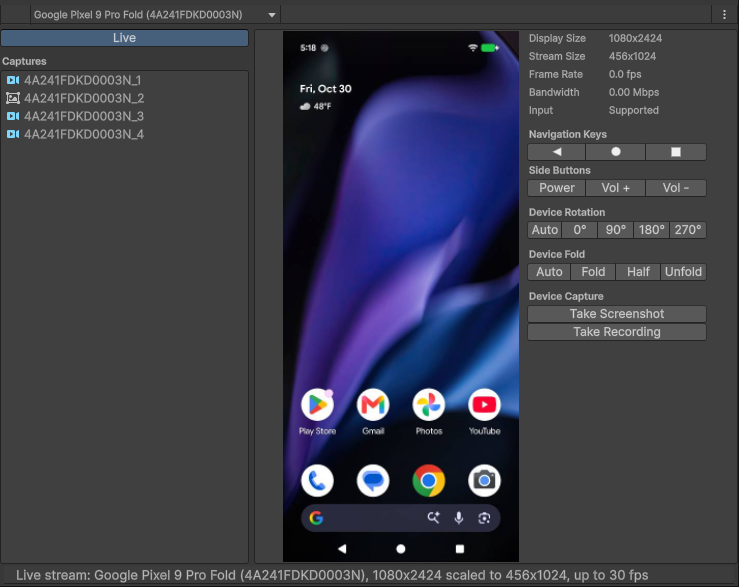
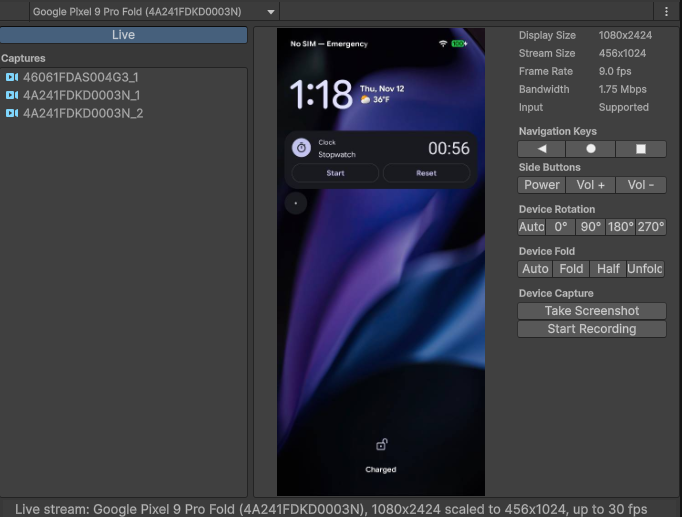
Take Recording -> Start Recording

Changed region(s): [[0.0, 0.0, 1.0, 1.0], [0.9545, 0.0, 0.9853, 0.0309], [0.893, 0.3095, 0.9238, 0.3404]]

diff --git a/com.unity.mobile.android-logcat/Editor/AndroidLogcatScreenCaptureWindow.cs b/com.unity.mobile.android-logcat/Editor/AndroidLogcatScreenCaptureWindow.cs
@@ -21,12 +21,12 @@ namespace Unity.Android.Logcat
                 "Capture the device screen and add it to the list. The screenshot comes from the device "
                 + "rather than from the stream, so it is full resolution whatever the stream is scaled to. "
                 + "Shortcut: Ctrl+Shift+S, Cmd+Shift+S on macOS, while this view is showing.");
-            public static readonly GUIContent TakeRecording = new GUIContent("Take Recording",
+            public static readonly GUIContent StartRecording = new GUIContent("Start Recording",
                 "Record the live view, at the stream's size, and add the recording to the list when "
                 + "it stops. Leaving the live view stops it.");
             public static readonly GUIContent StopRecording = new GUIContent("Stop Recording",
                 "Stop recording and add the recording to the list.");
-            public static readonly GUIContent RecordingUnsupported = new GUIContent("Take Recording",
+            public static readonly GUIContent RecordingUnsupported = new GUIContent("Start Recording",
                 "Recording isn't available on Linux, the Linux Editor has no H.264 encoder.");
         }
         private AndroidLogcatRuntimeBase m_Runtime;
@@ -96,7 +96,7 @@ namespace Unity.Android.Logcat
                 // One button that starts and stops: a recording is running or it is
                 // not, and two buttons would leave one of them dead most of the time.
                 new AndroidLogcatLiveStream.CaptureAction(
-                    () => m_CaptureVideo.IsRecording ? Styles.StopRecording : RecordingSupported ? Styles.TakeRecording : Styles.RecordingUnsupported,
+                    () => m_CaptureVideo.IsRecording ? Styles.StopRecording : RecordingSupported ? Styles.StartRecording : Styles.RecordingUnsupported,
                     ToggleRecording, () => CanRecord)
             };
 
@@ -452,7 +452,7 @@ namespace Unity.Android.Logcat
             {
                 var message = m_DeviceSelection.SelectedDevice == null
                     ? "No capture to show. Select one from the list."
-                    : "No capture to show. Select Live, then Take Screenshot or Take Recording.";
+                    : "No capture to show. Select Live, then Take Screenshot or Start Recording.";
                 EditorGUI.HelpBox(imageRect, message, MessageType.Info);
             }
         }

diff --git a/com.unity.mobile.android-logcat/Documentation~/screen-capture-window-reference.md b/com.unity.mobile.android-logcat/Documentation~/screen-capture-window-reference.md
@@ -143,7 +143,7 @@ The device navigation buttons work while the live view is streaming and the devi
 | **Half**    | Holds the device half open, regardless of the hinge position. Appears only for devices that report half open as a separate state. |
 | **Unfold**  | Holds the device unfolded, regardless of the hinge position. |
 
-Under **Device Capture**, **Take Screenshot** captures the device screen and adds it to the [Capture list](#capture-list). **Ctrl+Shift+S** (macOS: **Cmd+Shift+S**) does the same while this window has focus and **Live** is selected. The shortcut has no effect while a saved capture is selected. **Take Recording** starts recording the live view and changes to **Stop Recording**, and the view shows how long it has been recording. The recording is added to the list when it stops. The [Capture list](#capture-list) is disabled while recording. Closing the window, or the live stream stopping, also stops the recording, so a recording never continues out of sight. Screenshots are taken on the device, so they are full resolution regardless of how the stream is scaled. Recordings are made from the stream, so they are the stream's size.
+Under **Device Capture**, **Take Screenshot** captures the device screen and adds it to the [Capture list](#capture-list). **Ctrl+Shift+S** (macOS: **Cmd+Shift+S**) does the same while this window has focus and **Live** is selected. The shortcut has no effect while a saved capture is selected. **Start Recording** records the live view and changes to **Stop Recording**, and the view shows how long it has been recording. The recording is added to the list when it stops. The [Capture list](#capture-list) is disabled while recording. Closing the window, or the live stream stopping, also stops the recording, so a recording never continues out of sight. Screenshots are taken on the device, so they are full resolution regardless of how the stream is scaled. Recordings are made from the stream, so they are the stream's size.
 
 For how to interact with the device and how to change the size, quality, and frame rate of the stream, refer to [View the device screen live](screen-capture-live-stream.md).
 

diff --git a/com.unity.mobile.android-logcat/CHANGELOG.md b/com.unity.mobile.android-logcat/CHANGELOG.md
@@ -16,7 +16,7 @@ and this project adheres to [Semantic Versioning](http://semver.org/spec/v2.0.0.
  - The details beside a selected screenshot show the device, its Android version and display size, along with the image size, the file size and when it was captured. The device details read `Undefined` for a screenshot saved without them.
  - The screenshot and the live view can be zoomed with Ctrl+Wheel (Cmd+Wheel on macOS), and the zoomed image moved with a Ctrl+middle mouse button drag or with the scrollbars that appear.
  - The device screen can be viewed live from the Screen Capture window: select the "Live" row at the top of the screenshot list. Clicks, drags, the scroll wheel and typing are sent to the device as touch, scroll and key events, and Ctrl+A, Ctrl+C and Ctrl+V (Cmd on macOS) select all, copy and paste on the device using its own clipboard, and Back / Home / Overview buttons sit beside the image with the stream details. 
- - Screen recordings are now made from the live view, with **Take Recording** in the live view, instead of with `adb screenrecord`. They are saved as constant frame rate MP4 files beside the screenshots, at the live stream's **Max Frame Rate** (up to 60 fps), and follow the live view's rotation. A recording stops on its own after the **Time Limit** set in Preferences (10 minutes by default, up to 60). Recording is not available on Linux.
+ - Screen recordings are now made from the live view, with **Start Recording** in the live view, instead of with `adb screenrecord`. They are saved as constant frame rate MP4 files beside the screenshots, at the live stream's **Max Frame Rate** (up to 60 fps), and follow the live view's rotation. A recording stops on its own after the **Time Limit** set in Preferences (10 minutes by default, up to 60). Recording is not available on Linux.
  - Recordings can be played in the Screen Capture window, with play/pause, a time slider and buttons that step one frame back or forward.
  - Tools->Open Terminal is now supported on Linux Editor.
  - Fixed Tools->Open Terminal not opening a window on Windows Editor when running on CoreCLR.

diff --git a/com.unity.mobile.android-logcat/Documentation~/screen-capture-video.md b/com.unity.mobile.android-logcat/Documentation~/screen-capture-video.md
@@ -5,7 +5,7 @@ This page explains how to use the [Screen Capture tool](screen-capture.md) to re
 1. Open the [Device Screen Capture window](screen-capture-window-reference.md).
 2. In the [Toolbar](screen-capture-window-reference.md#toolbar), use **Device Selector** to specify the device to record.
 3. Select **Live** in the [Capture list](screen-capture-window-reference.md#capture-list) to view the device's screen.
-4. Select **Take Recording** in the [Live view details](screen-capture-window-reference.md#live-view-details). The Screen Capture tool begins to record the device's screen, and the button becomes **Stop Recording**.
+4. Select **Start Recording** in the [Live view details](screen-capture-window-reference.md#live-view-details). The Screen Capture tool begins to record the device's screen, and the button becomes **Stop Recording**.
 5. Select **Stop Recording** to finish. The recording is added to the [Capture list](screen-capture-window-reference.md#capture-list), and its row is briefly highlighted. Select the row to open it in the [Capture preview](screen-capture-window-reference.md#capture-preview). The Capture list is disabled while recording. Closing the window also stops the recording.
 6. To keep a copy elsewhere, right-click the recording's row and select **Copy To...**.
 
